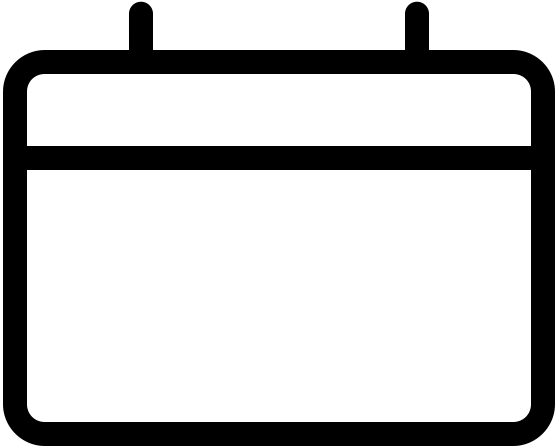
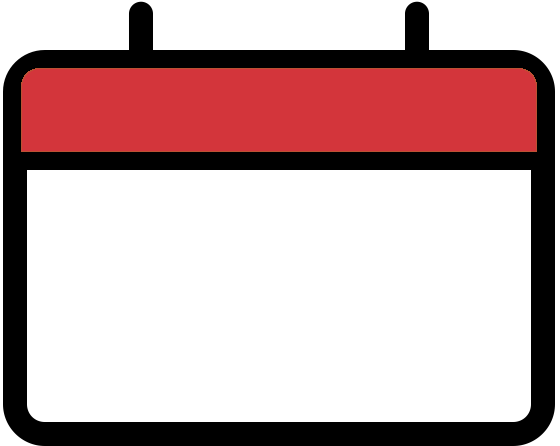
Agregar imagenes de calendario

Changed region(s): [[0.0304, 0.1457, 0.9714, 0.3498]]

diff --git a/assets/images/index.tsx b/assets/images/index.tsx
@@ -305,6 +305,81 @@ const images={
     m_uvp: require('./mapas/m_uvp.jpg'),
     m_zar: require('./mapas/m_zar.jpg'),
 
+
+    c_6BA06C: require('./calendar/c_6BA06C.png'),
+    c_6C9B3B: require('./calendar/c_6C9B3B.png'),
+    c_6C9470: require('./calendar/c_6C9470.png'),
+    c_8C9F61: require('./calendar/c_8C9F61.png'),
+    c_8F7E8C: require('./calendar/c_8F7E8C.png'),
+    c_09A69C: require('./calendar/c_09A69C.png'),
+    c_9A8262: require('./calendar/c_9A8262.png'),
+    c_9B8D82: require('./calendar/c_9B8D82.png'),
+    c_73AC60: require('./calendar/c_73AC60.png'),
+    c_84A874: require('./calendar/c_84A874.png'),
+    c_323B50: require('./calendar/c_323B50.png'),
+    c_00727f: require('./calendar/c_00727f.png'),
+    c_819D7E: require('./calendar/c_819D7E.png'),
+    c_897F6B: require('./calendar/c_897F6B.png'),
+    c_949C71: require('./calendar/c_949C71.png'),
+    c_94888B: require('./calendar/c_94888B.png'),
+    c_A58E64: require('./calendar/c_A58E64.png'),
+    c_AC9786: require('./calendar/c_AC9786.png'),
+    c_C0A699: require('./calendar/c_C0A699.png'),
+    c_C0AC9D: require('./calendar/c_C0AC9D.png'),
+    c_C2B5A3: require('./calendar/c_C2B5A3.png'),
+    c_C05B9F: require('./calendar/c_C05B9F.png'),
+    c_C7A03F: require('./calendar/c_C7A03F.png'),
+    c_CAA87E: require('./calendar/c_CAA87E.png'),
+    c_D1A173: require('./calendar/c_D1A173.png'),
+    c_D6AA72: require('./calendar/c_D6AA72.png'),
+    c_D59668: require('./calendar/c_D59668.png'),
+    c_E42339: require('./calendar/c_E42339.png'),
+    c_EC627E: require('./calendar/c_EC627E.png'),
+    c_F18862: require('./calendar/c_F18862.png'),
+
+    c_2E88C1: require('./calendar/c_2E88C1.png'),
+    c_6E8E9D: require('./calendar/c_6E8E9D.png'),
+    c_6E9B3B: require('./calendar/c_6E9B3B.png'),
+    c_7B9A58: require('./calendar/c_7B9A58.png'),
+    c_598E55: require('./calendar/c_598E55.png'),
+    c_709D54: require('./calendar/c_709D54.png'),
+    c_899B27: require('./calendar/c_899B27.png'),
+    c_957A16: require('./calendar/c_957A16.png'),
+    c_56935E: require('./calendar/c_56935E.png'),
+    c_524656: require('./calendar/c_524656.png'),
+    c_541743: require('./calendar/c_541743.png'),
+    c_574261: require('./calendar/c_574261.png'),
+    c_806995: require('./calendar/c_806995.png'),
+    c_827062: require('./calendar/c_827062.png'),
+    c_867475: require('./calendar/c_867475.png'),
+    c_A5A9A0: require('./calendar/c_A5A9A0.png'),
+    c_ACB942: require('./calendar/c_ACB942.png'),
+    c_B1BA12: require('./calendar/c_B1BA12.png'),
+    c_B1825B: require('./calendar/c_B1825B.png'),
+    c_BFAF91: require('./calendar/c_BFAF91.png'),
+    c_CA8D56: require('./calendar/c_CA8D56.png'),
+    c_CD995E: require('./calendar/c_CD995E.png'),
+    c_CE6B41: require('./calendar/c_CE6B41.png'),
+    c_CF9D55: require('./calendar/c_CF9D55.png'),
+    c_D44F63: require('./calendar/c_D44F63.png'),
+    c_d3353b: require('./calendar/c_d3353b.png'),
+    c_D09736: require('./calendar/c_D09736.png'),
+    c_DA5B43: require('./calendar/c_DA5B43.png'),
+    c_DC3527: require('./calendar/c_DC3527.png'),
+    c_DFA34F: require('./calendar/c_DFA34F.png'),
+    c_E0A162: require('./calendar/c_E0A162.png'),
+    c_E0B14A: require('./calendar/c_E0B14A.png'),
+    c_E27B63: require('./calendar/c_E27B63.png'),
+    c_E28A2A: require('./calendar/c_E28A2A.png'),
+    c_E49D5F: require('./calendar/c_E49D5F.png'),
+    c_E75C70: require('./calendar/c_E75C70.png'),
+    c_E56560: require('./calendar/c_E56560.png'),
+    c_ED6B4A: require('./calendar/c_ED6B4A.png'),
+    c_ED883C: require('./calendar/c_ED883C.png'),
+    c_F6A140: require('./calendar/c_F6A140.png'),
+    c_F29D34: require('./calendar/c_F29D34.png'),
+    c_FECF44: require('./calendar/c_FECF44.png'),
+
 };
 
 export default images;

diff --git a/components/producto/ImagesArray.js b/components/producto/ImagesArray.js
@@ -12,6 +12,7 @@ const imagesArray = {
     'agricola' : Images.b_agricola,
     'pecuario' : Images.b_pecuario,
     'pesquero' : Images.b_pesquero,
+
     'b_aga.jpg' : Images.b_aga,
     'b_agu.jpg' : Images.b_agu,
     'b_ajo.jpg' : Images.b_ajo,
@@ -317,6 +318,78 @@ const imagesArray = {
     'm_uvp.jpg' : Images.m_uvp,
     'm_zar.jpg' : Images.m_zar,
 
-    
+    '#6BA06C': Images.c_6BA06C,
+    '#6C9B3B': Images.c_6C9B3B,
+    '#6C9470': Images.c_6C9470,
+    '#8C9F61': Images.c_8C9F61,
+    '#8F7E8C': Images.c_8F7E8C,
+    '#09A69C': Images.c_09A69C,
+    '#9A8262': Images.c_9A8262,
+    '#9B8D82': Images.c_9B8D82,
+    '#73AC60': Images.c_73AC60,
+    '#84A874': Images.c_84A874,
+    '#323B50': Images.c_323B50,
+    '#00727f': Images.c_00727f,
+    '#819D7E': Images.c_819D7E,
+    '#897F6B': Images.c_897F6B,
+    '#949C71': Images.c_949C71,
+    '#94888B': Images.c_94888B,
+    '#A58E64': Images.c_A58E64,
+    '#AC9786': Images.c_AC9786,
+    '#C0A699': Images.c_C0A699,
+    '#C0AC9D': Images.c_C0AC9D,
+    '#C2B5A3': Images.c_C2B5A3,
+    '#C05B9F': Images.c_C05B9F,
+    '#C7A03F': Images.c_C7A03F,
+    '#CAA87E': Images.c_CAA87E,
+    '#D1A173': Images.c_D1A173,
+    '#D6AA72': Images.c_D6AA72,
+    '#D59668': Images.c_D59668,
+    '#E42339': Images.c_E42339,
+    '#EC627E': Images.c_EC627E,
+    '#F18862': Images.c_F18862,
+
+    '#2E88C1': Images.c_2E88C1,
+    '#6E8E9D': Images.c_6E8E9D,
+    '#6E9B3B': Images.c_6E9B3B,
+    '#7B9A58': Images.c_7B9A58,
+    '#598E55': Images.c_598E55,
+    '#709D54': Images.c_709D54,
+    '#899B27': Images.c_899B27,
+    '#957A16': Images.c_957A16,
+    '#56935E': Images.c_56935E,
+    '#524656': Images.c_524656,
+    '#541743': Images.c_541743,
+    '#574261': Images.c_574261,
+    '#806995': Images.c_806995,
+    '#827062': Images.c_827062,
+    '#867475': Images.c_867475,
+    '#A5A9A0': Images.c_A5A9A0,
+    '#ACB942': Images.c_ACB942,
+    '#B1BA12': Images.c_B1BA12,
+    '#B1825B': Images.c_B1825B,
+    '#BFAF91': Images.c_BFAF91,
+    '#CA8D56': Images.c_CA8D56,
+    '#CD995E': Images.c_CD995E,
+    '#CE6B41': Images.c_CE6B41,
+    '#CF9D55': Images.c_CF9D55,
+    '#D44F63': Images.c_D44F63,
+    '#d3353b': Images.c_d3353b,
+    '#D09736': Images.c_D09736,
+    '#DA5B43': Images.c_DA5B43,
+    '#DC3527': Images.c_DC3527,
+    '#DFA34F': Images.c_DFA34F,
+    '#E0A162': Images.c_E0A162,
+    '#E0B14A': Images.c_E0B14A,
+    '#E27B63': Images.c_E27B63,
+    '#E28A2A': Images.c_E28A2A,
+    '#E49D5F': Images.c_E49D5F,
+    '#E75C70': Images.c_E75C70,
+    '#E56560': Images.c_E56560,
+    '#ED6B4A': Images.c_ED6B4A,
+    '#ED883C': Images.c_ED883C,
+    '#F6A140': Images.c_F6A140,
+    '#F29D34': Images.c_F29D34,
+    '#FECF44': Images.c_FECF44,
     
 }

diff --git a/components/producto/CalendarioProduccion.tsx b/components/producto/CalendarioProduccion.tsx
@@ -1,3 +1,4 @@
+import React from "react";
 import {
     Dimensions,
     FlatList,
@@ -9,7 +10,8 @@ import {
     Text,
     View
 } from "react-native";
-import React from "react";
+
+const ImagesArray = require('../../components/producto/ImagesArray').default
 
 function CalendarioProduccion(props) {
     var monthName = [
@@ -31,12 +33,12 @@ function CalendarioProduccion(props) {
 
     const Item = ({month,info}) =>(
         <ImageBackground
-            source={require("../../assets/calendar.png")}
+            source={ImagesArray(props.color)}
             resizeMode={"center"}
-            style={[styles.imagenConsumo,{backgroundColor:'white',width:(screenWidth/2.3)}]}>
-
-            <Text style={[styles.fechaConsumo, {width:(screenWidth/2.5), top:'17%', color:'white', backgroundColor: props.color}]}>{month}</Text>
+            style={[styles.imagenConsumo,{backgroundColor:'white',width:(screenWidth/2.085),height:(screenHeight/5.3)}]}>
+            <Text style={[styles.fechaConsumo, { color:props.color,}]}>{'\n\n'+month}</Text>
             <Text style={[styles.datoConsumo,{color:'black'}]}>{info}</Text>
+
         </ImageBackground>
     );
 
@@ -45,7 +47,7 @@ function CalendarioProduccion(props) {
     );
 
     return (
-            <View style={{flex:1, height:200}}>
+            <View style={{flex:1,}}>
                 <FlatList data={monthName} renderItem={renderItem} keyExtractor={item => item.id} horizontal={true} pagingEnabled={true} />
             </View>
         )
@@ -54,21 +56,21 @@ function CalendarioProduccion(props) {
 
 const styles = StyleSheet.create({
     imagenConsumo: {
-        margin:10,
+        flex:1,
     },
     fechaConsumo: {
         fontFamily: "montserrat-700",
-        fontSize: 24,
-        alignSelf:'center',
+        fontSize: 25,
         textAlign: 'center',
-        borderRadius:2,
-        overflow:'hidden'
+        flex:0,
+        position:'relative',
+
     },
     datoConsumo:{
         fontFamily: "montserrat-700",
-        fontSize: 40,
-        alignSelf:'center',
+        fontSize: 38,
         textAlign: 'center',
+        flex:0,
     }
 
 });
